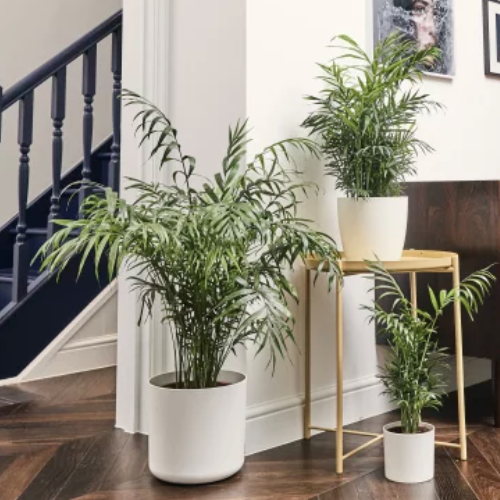
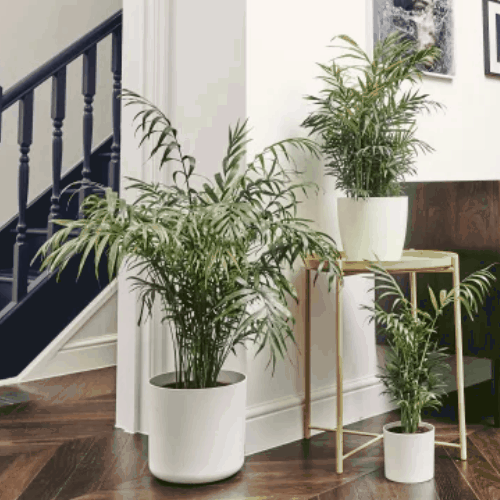
New version Images webp

diff --git a/_layouts/homepage.html b/_layouts/homepage.html
@@ -6,7 +6,12 @@ layout: default
 <!-- 1/ Parrallax Image large -->
 <div class="parallax-container">
   <div class="parallax">
-    <img src="img/roman-kraft-208004-unsplash2.png" alt="ma société à votre service">
+    <picture>
+      <source srcset="img/roman-kraft-208004-unsplash2.webp" type="image/webp" media="(min-width: 10em)">
+      <source srcset="img/roman-kraft-208004-unsplash2.png" type="image/png" media="(min-width: 10em)"> 
+      <img width='500' src="img/roman-kraft-208004-unsplash2.png" alt="Ma société à votre service">
+    </picture>
+  
   </div>
   <br>
   <div class="container ">
@@ -80,7 +85,12 @@ layout: default
     <div class="col s12 m6">
       <div class="card">
         <div class="card-image">
-          <img src="img/products/in-plant-2.png">
+          <picture>
+            <source srcset="img/products/in-plant-2.webp" type="image/webp" media="(min-width: 10em)">
+            <source srcset="img/products/in-plant-2.png" type="image/png" media="(min-width: 10em)"> 
+            <img width='500' src="img/products/in-plant-2.png" alt="Plantes d'interieures">
+          </picture>
+         
           <a class="btn-floating halfway-fab waves-effect waves-light red accent-1" href="{{ site.baseurl }}/posts/">
             <i class="material-icons small">shopping_cart</i></a>
         </div>
@@ -95,7 +105,11 @@ layout: default
     <div class="col s12 m6">
       <div class="card">
         <div class="card-image">
-          <img src="img/products/ou-plant-0.png">
+          <picture>
+            <source srcset="img/products/ou-plant-0.webp" type="image/webp" media="(min-width: 10em)">
+            <source srcset="img/products/ou-plant-0.png" type="image/png" media="(min-width: 10em)"> 
+            <img width='500' src="img/products/ou-plant-0.png" alt="Plantes d'exterieures">
+          </picture>
 
           <a class="btn-floating halfway-fab waves-effect waves-light red accent-1" href="{{ site.baseurl }}/posts/">
             <i class="material-icons small">shopping_cart</i></a>
@@ -111,8 +125,12 @@ layout: default
     <div class="col s12 m6">
       <div class="card">
         <div class="card-image">
-          <img src="img/products/ambiance-out-1.png">
-
+          <picture>
+            <source srcset="img/products/ambiance-out-1.webp" type="image/webp" media="(min-width: 10em)">
+            <source srcset="img/products/ambiance-out-1.png" type="image/png" media="(min-width: 10em)"> 
+            <img width='500' src="img/products/ambiance-out-1.png" alt="Meubles de jardin">
+          </picture>
+         
           <a class="btn-floating halfway-fab waves-effect waves-light red accent-1" href="{{ site.baseurl }}/posts/">
             <i class="material-icons small">shopping_cart</i></a>
         </div>
@@ -127,7 +145,12 @@ layout: default
     <div class="col s12 m6">
       <div class="card">
         <div class="card-image">
-          <img src="img/products/ambiance-in-1.png">
+          <picture>
+            <source srcset="img/products/ambiance-in-1.webp" type="image/webp" media="(min-width: 10em)">
+            <source srcset="img/products/ambiance-in-1.png" type="image/png" media="(min-width: 10em)"> 
+            <img width='500' src="img/products/ambiance-in-1.png" alt="Décorations d'interieures">
+          </picture>
+          
 
           <a class="btn-floating halfway-fab waves-effect waves-light red accent-1" href="{{ site.baseurl }}/posts/">
             <i class="material-icons small">shopping_cart</i></a>
@@ -156,11 +179,41 @@ layout: default
 
     <div class="carousel col s12 m6">
       <h5 class="center">Instagram mood </h5>
-      <a class="carousel-item" href="#one!"><img src="img/insta/insta1.png"></a>
-      <a class="carousel-item" href="#two!"><img src="img/insta/insta2.png"></a>
-      <a class="carousel-item" href="#three!"><img src="img/insta/insta3.png"></a>
-      <a class="carousel-item" href="#four!"><img src="img/insta/insta1.png"></a>
-      <a class="carousel-item" href="#five!"><img src="img/insta/insta2.png"></a>
+      <a class="carousel-item" href="#one!">
+        <picture>
+          <source srcset="img/insta/insta1.webp" type="image/webp" media="(min-width: 10em)">
+          <source srcset="img/insta/insta1.png" type="image/png" media="(min-width: 10em)"> 
+          <img width='200' src="img/insta/insta1.png" alt="1-textes Décorations d'interieures">
+        </picture>        
+      </a>
+      <a class="carousel-item" href="#two!">
+        <picture>
+          <source srcset="img/insta/insta2.webp" type="image/webp" media="(min-width: 10em)">
+          <source srcset="img/insta/insta2.png" type="image/png" media="(min-width: 10em)"> 
+          <img width='200' src="img/insta/insta2.png" alt="2-textes Décorations d'interieures">
+        </picture>
+      </a>
+      <a class="carousel-item" href="#three!">
+        <picture>
+          <source srcset="img/insta/insta3.webp" type="image/webp" media="(min-width: 10em)">
+          <source srcset="img/insta/insta3.png" type="image/png" media="(min-width: 10em)"> 
+          <img width='200' src="img/insta/insta3.png" alt="3-textes Décorations d'interieures">
+        </picture>
+      </a>
+      <a class="carousel-item" href="#four!">
+        <picture>
+          <source srcset="img/insta/insta1.webp" type="image/webp" media="(min-width: 10em)">
+          <source srcset="img/insta/insta1.png" type="image/png" media="(min-width: 10em)"> 
+          <img width='200' src="img/insta1.png" alt="4-textes Décorations d'interieures">
+        </picture>
+      </a>
+      <a class="carousel-item" href="#five!">
+        <picture>
+          <source srcset="img/insta/insta2.webp" type="image/webp" media="(min-width: 10em)">
+          <source srcset="img/insta/insta2.png" type="image/png" media="(min-width: 10em)"> 
+          <img width='200' src="img/insta2.png" alt="5-textes Décorations d'interieures">
+        </picture>
+      </a>
 
     </div>
 
@@ -277,11 +330,11 @@ layout: default
     </div>
     <div class="col s6 right-align">
       <!--Facebook-->
-      <a><i class="fab fa-facebook-square fa-3x green-text "></i></a>
+      <a href="#"><i class="fab fa-facebook-square fa-3x green-text "></i></a>
       <!--Twitter-->
-      <a class="tw-ic"><i class="fab fa-twitter-square fa-3x green-text"></i></a>
+      <a href="#" class="tw-ic"><i class="fab fa-twitter-square fa-3x green-text"></i></a>
       <!--Instagram-->
-      <a class="ins-ic"><i class="fab fa-instagram fa-3x green-text"></i></a>
+      <a href="#" class="ins-ic"><i class="fab fa-instagram fa-3x green-text"></i></a>
     </div>
 
     </row>

diff --git a/_includes/header.html b/_includes/header.html
@@ -24,35 +24,32 @@
     <link rel="canonical" href="{{ page.url | replace:'index.html','' | prepend: site.baseurl | prepend: site.url }}">
     <link rel="alternate" type="application/rss+xml" title="{{ site.title }}" href="{{ '/feed.xml' | prepend:
         site.baseurl | prepend: site.url }}" />
-    <script src="https://ajax.googleapis.com/ajax/libs/jquery/2.2.2/jquery.min.js"></script>
 
+    <!-- SnipCart Component-->
     <link rel="stylesheet" href="https://cdn.snipcart.com/themes/v3.2.1/default/snipcart.css" />
-
     <script async src="https://cdn.snipcart.com/themes/v3.2.1/default/snipcart.js"></script>
[2 lines of base64/hex data omitted]
 
-
-
+    <!-- Typo -->
     <link rel="stylesheet" href="https://use.fontawesome.com/releases/v5.6.3/css/all.css"
         integrity="sha384-UHRtZLI+pbxtHCWp1t77Bi1L4ZtiqrqD80Kn4Z8NTSRyMA2Fd33n5dQ8lWUE00s/" crossorigin="anonymous">
 </head>
 
-<body>
+<body id="home">
     <!-- Nav -->
     <div class="navbar-fixed">
         <nav class="green">
             <div class="nav-wrapper z-depth-5">
-                <a href="{{ site.baseurl }}/" class="brand-logo société"><img src=" {{'/img/picto/pictoF.svg' |
+                <a href="{{ site.baseurl }}/#home" class="brand-logo société"><img src=" {{'/img/picto/pictoF.svg' |
                         prepend:site.baseurl }}" alt="logo site société"
                         style="height:35px; margin: 0 .1em 0 .4em">SiteSociété</a>
                 <a href="#" data-target="mobile-demo" class="sidenav-trigger"><i class="material-icons">menu</i></a>
                 <ul class="right hide-on-med-and-down">
                     <li><a href="{{ site.baseurl }}/#services">Services</a></li>
                     <li><a href="{{ site.baseurl }}/#produits">Produits</a></li>
-                    <li><a href="{{ site.baseurl }}/#actu">Actualités</a></li>
+                    <li><a href="{{ site.baseurl }}/#actu">Actualité</a></li>
                     <li><a href="{{ site.baseurl }}/#contact">Contact</a></li>
                     <li><a href="{{ site.baseurl }}/posts/">Boutique</a></li>
-
 
                     <li><button style="height:1px; background-color: white; border:none;"
                             class="header__checkout snipcart-checkout snipcart-summary">
@@ -69,8 +66,8 @@
     </div>
     <ul class="sidenav" id="mobile-demo">
         <li><a href="{{ site.baseurl }}/#services">Services<i class="tiny material-icons">style</i></a></li>
-        <li><a href="{{ site.baseurl }}/#produits">Produits<i class="tiny material-icons">spa</i></a></li>
-        <li><a href="{{ site.baseurl }}/#actu">Acualités<i class="tiny material-icons">favorite</i></a></li>
+        <li><a href="{{ site.baseurl }}/#produits">roduits<i class="tiny material-icons">spa</i></a></li>
+        <li><a href="{{ site.baseurl }}/#actu">Acualité<i class="tiny material-icons">favorite</i></a></li>
         <li><a href="{{ site.baseurl }}/#contact">Contact<i class="tiny material-icons">email</i></a></li>
         <li><a href="{{ site.baseurl }}/posts/">Boutique</a></li>
         <li><button style="height:1px; background-color: white; border:none;"

diff --git a/js/main.js b/js/main.js
@@ -17,29 +17,47 @@ $(document).ready(function(){
     interval: 1500,
   });
 
-  // Smooth scrolling using jQuery easing
-  $('a.js-scroll-trigger[href*="#"]:not([href="#"])').click(function() {
-    if (location.pathname.replace(/^\//, '') == this.pathname.replace(/^\//, '') && location.hostname == this.hostname) {
-      var target = $(this.hash);
-
-      target = target.length ? target : $('[name=' + this.hash.slice(1) + ']');
-
-
-
-      console.log( 'target' , target);
-
-      if (target.length) {
-        $('html, body').animate({
-          scrollTop: (target.offset().top - 54)
-        }, 1000, "easeInOutExpo");
-        return false;
-      }
+// Smooth scrolling using jQuery easing
+// https://css-tricks.com/snippets/jquery/smooth-scrolling/
+// Select all links with hashes
+$('a[href*="#"]')
+// Remove links that don't actually link to anything
+.not('[href="#"]')
+.not('[href="#0"]')
+.click(function(event) {
+  // On-page links
+  if (
+    location.pathname.replace(/^\//, '') == this.pathname.replace(/^\//, '') 
+    && 
+    location.hostname == this.hostname
+  ) {
+    // Figure out element to scroll to
+    var target = $(this.hash);
+    target = target.length ? target : $('[name=' + this.hash.slice(1) + ']');
+    // Does a scroll target exist?
+    if (target.length) {
+      // Only prevent default if animation is actually gonna happen
+      event.preventDefault();
+      $('html, body').animate({
+        scrollTop: target.offset().top
+      }, 1000, function() {
+        // Callback after animation
+        // Must change focus!
+        var $target = $(target);
+        $target.focus();
+        if ($target.is(":focus")) { // Checking if the target was focused
+          return false;
+        } else {
+          $target.attr('tabindex','-1'); // Adding tabindex for elements not focusable
+          $target.focus(); // Set focus again
+        };
+      });
     }
-  });
+  }
+});
 
  // Scroll reveal calls
   window.sr = ScrollReveal();
-
   sr.reveal('.sr-icons', {
     duration: 600,
     scale: 0.4,

diff --git a/_includes/footer.html b/_includes/footer.html
@@ -51,17 +51,16 @@ For big & small businesses alike ">Snipcart</a> pour présenter votre commerce o
   </div>
 </footer>
 
-<!-- jQuery and more… JavaScript at end of body for optimized loading
-    <script type="text/javascript" src="js/materialize.min.js"></script>
-    <script src="https://code.jquery.com/jquery-3.3.1.slim.min.js" integrity="sha256-3edrmyuQ0w65f8gfBsqowzjJe2iM6n0nKciPUp8y+7E="crossorigin="anonymous"></script>
-    <script>window.jQuery || document.write('<script src="{{ /js/vendor/jquery-3.3.1.min.js | prepend: site.baseurl }}"><\/script>')</script>
-  -->
-<script src="{{ '/js/vendor/jquery.easing.min.js' | prepend: site.baseurl }}"></script>
-<script src="{{ '/js/vendor/scrollreveal.min.js'| prepend: site.baseurl }}"></script>
+<!-- jQuery and more… JavaScript at end of body for optimized loading -->
+<script rel="preconnect" src="https://cdnjs.cloudflare.com/ajax/libs/jquery/3.1.1/jquery.min.js" integrity="sha512-U6K1YLIFUWcvuw5ucmMtT9HH4t0uz3M366qrF5y4vnyH6dgDzndlcGvH/Lz5k8NFh80SN95aJ5rqGZEdaQZ7ZQ==" crossorigin="anonymous" referrerpolicy="no-referrer"></script> 
+<script>window.jQuery || document.write('<script src="{{ /js/vendor/jquery-3.3.1.min.js | prepend: site.baseurl }}"><\/script>')</script>
+<script rel="preconnect" src="{{ '/js/vendor/jquery.easing.min.js' | prepend: site.baseurl }}"></script>
+
+<script rel="preconnect"src="{{ '/js/vendor/scrollreveal.min.js'| prepend: site.baseurl }}"></script>
 <!-- Materialize -->
-<script src="https://cdnjs.cloudflare.com/ajax/libs/materialize/1.0.0/js/materialize.min.js"></script>
-<!-- Main -->
-<script src="{{ '/js/main.js' | prepend: site.baseurl }}"></script>
+<script rel="preconnect" src="https://cdnjs.cloudflare.com/ajax/libs/materialize/1.0.0/js/materialize.min.js"></script>
+<!-- Main JS-->
+<script rel="preconnect" src="{{ '/js/main.js' | prepend: site.baseurl }}"></script>
 </body>
 
 </html>

diff --git a/_layouts/post.html b/_layouts/post.html
@@ -4,10 +4,10 @@ head: snipcart.html
 ---
 <div class="base container products">
     <div class="row product">
-      <h1>La boutique</h1>
-      <h5>Voici l'espace boutique. Vous proposez vos produits 
-      et avec le système E-commerce de <a href="https://snipcart.com/" >SnipCart</a>, vous pouvez gerer tous les aspects commerciaux d'une boutique (Ventes, stocks, promotions, infos clients, etc). 
-      </h5>
+      <h1>La boutique en ligne</h1>
+      <h5>Vous présentez vos produits et avec le système E-commerce de <a href="https://snipcart.com/" >SnipCart</a>, le panier (en haut à droite) enregistre les achats.</h5>
+      <h5> De ce panier, votre client pourra payer en toute securité ou annuler l'achat.</h5>
+      <h5>En vous connectant sur votre compte <a href="https://snipcart.com/features" >SnipCart</a>, vous aurez accès à toutes les données pour gérer tous les aspects commerciaux d'une boutique (Ventes, stocks, promotions, infos clients, etc). </h5>
       
       {% for post in site.posts %}
       <div class="col s12 m6">

diff --git a/_layouts/catpage.html b/_layouts/catpage.html
@@ -21,7 +21,7 @@ layout: default
             {% for post in site.categories[page.categories]  %}        
                 <li class="cat-page-li">
                     <a href="{{ site.baseurl }}{{ post.url }}">
-                        <img src="{{ site.baseurl }}/{{post.image}}" class="cat-page-li-img"  />
+                        <img src="{{ site.baseurl }}/{{post.image}}" class="cat-page-li-img" alt="{{ post.name }}" />
                     <h3>{{ post.name }}</h3>
                     </a>
                     <small>	

diff --git a/offline.html b/offline.html
@@ -6,16 +6,14 @@
     <meta name="description" content="Studio Design de Laurent Vignaux. Réalisations de site web.">
     <meta name="author" content="LVdesign">
 
-    <title>LVdesign Agency - Site Société</title>
+    <title>LVdesign Studio - Site Société</title>
 
-    <!-- Bootstrap core CSS -->
 
 
   </head>
 
   <body id="page-top">
-
-   <h1>Off line Page</h1>
+   <h1> LVdesign Studio - Off line Page</h1>
    <p>Vous êtes OFF line. </p>
   </body>
 

diff --git a/css/main.css b/css/main.css
@@ -13,6 +13,19 @@ html {
   }
 
 
+    /* Accessibility */
+    a, a:focus, a:hover {  color: rgb(5, 77, 24); }
+    a:focus, a:hover{ outline: 2px dotted;}
+  
+    input:focus {
+      box-shadow: 0 0.1em 0.5em rgba(0, 0, 0, 0.5);
+    }
+    input[type="text"]:focus,
+    input[type="email"]:focus,
+    input[type="tel"]:focus,
+    input[type="number"]:focus{ outline: 2px solid   rgb(5, 77, 24);  }
+
+
   .cat{
     font-size: 1em;
     font-weight: bold;

diff --git a/myCMD.md b/myCMD.md
@@ -3,7 +3,7 @@
 - server
 bundle exec jekyll serve
 
-
+bundle exec jekyll serve --livereload
 
 - to generate the site for production
 bundle exec  jekyll build
@@ -23,3 +23,10 @@ build puis copier _site vers /docs
 -
  gem install public_suffix --version 3.0.1
  bundle update
+
+
+ bundle add webrick
+
+
+
+     <script src="https://ajax.googleapis.com/ajax/libs/jquery/2.2.2/jquery.min.js"></script>
